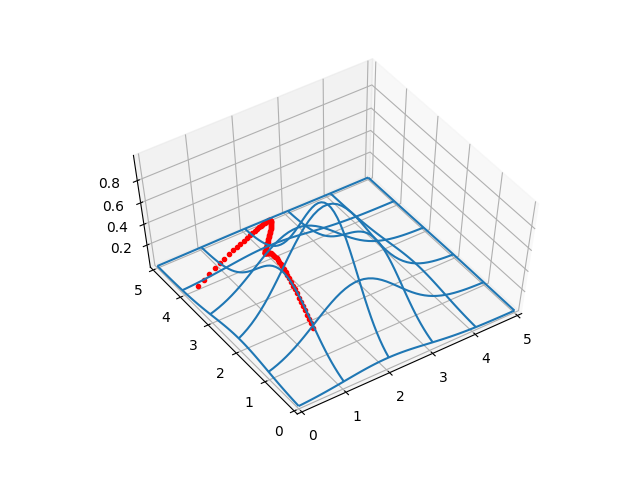
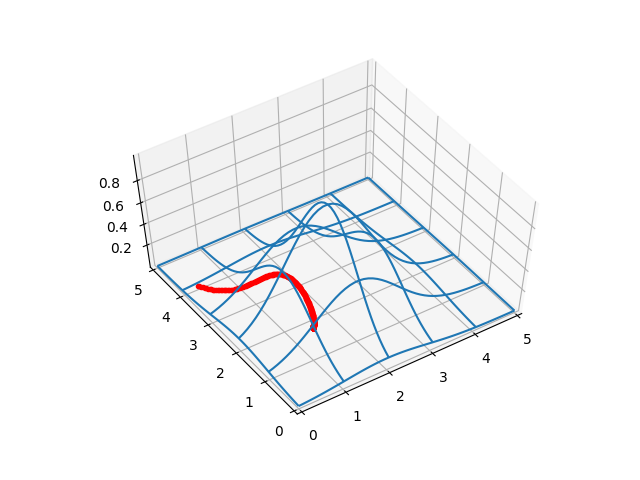
-

Changed region(s): [[0.3125, 0.4375, 0.5, 0.6875]]

diff --git a/calc_multi/calc_multi_40_elev/calc_multi_40_elev.html b/calc_multi/calc_multi_40_elev/calc_multi_40_elev.html
@@ -219,7 +219,7 @@ def plot_surf_path(azim,elev,a0,a1,a2,a3,a4,b0,b1,b2,b3,b4):
     ax.view_init(elev=elev, azim=azim)
     surf = ax.plot_wireframe(xx, yy, zz,rstride=10, cstride=10)
 
-    t = np.linspace(0,1.0,100)
+    t = np.linspace(0,1.0,300)
 
     x = a0 + a1*t + a2*t**2 + a3*t**3 + a4*t**4 
     y = b0 + b1*t + b2*t**2 + b3*t**3 + b4*t**4
@@ -244,15 +244,15 @@ def find_path(ex,ey,a0,b0,offset):
 
 
     # rasgele secilmis baslangic degerleri
-    a1,a2,a3 = 0.1,0.2,0.4
-    b1,b2,b3 = 0.2,0.4,0.6
+    a1,a2,a3 = 0,0,0
+    b1,b2,b3 = 0,0,0
     x0 = a1,a2,a3,b1,b2,b3
 
     def pintval(p):
         a1,a2,a3,b1,b2,b3 = p
         a4 = ex - a0 - (a1+a2+a3)
         b4 = ey - b0 - (b1+b2+b3)   
-        t = np.linspace(0,1,100)
+        t = np.linspace(0,1,300)
         tmp = b1 + 2.0*b2*t + 3.0*b3*t**2.0 - 112.0*t**3.0 + \
               (a1 + 2.0*a2*t + 3.0*a3*t**2.0 - 65.2*t**3.0)**2.0
         sq = [anp.sqrt(_) if _ != anp.nan else 0.0 for _ in tmp]
@@ -263,7 +263,6 @@ def find_path(ex,ey,a0,b0,offset):
         z = gfunc(x,y,offset)
         res = z * sq
         T = trapz(res, 1.0/len(t))
-        print ('T',T)
         return T
 
     pintval_grad = autograd.grad(pintval)
@@ -273,17 +272,15 @@ def find_path(ex,ey,a0,b0,offset):
                             jac = pintval_grad,
                             method = 'COBYLA',
                             callback=print,
-                            tol=0.05,
+                            tol=0.001,
                             constraints=cons)
 
     print (sol.x)
     return sol.x
 
 a0,b0=1.0,1.0
-OFFSET = 1.0
-
 ex,ey=0.3,4.0
-res = find_path(ex,ey,a0,b0,OFFSET)
+res = find_path(ex,ey,a0,b0,offset=0.8)
 a1,a2,a3,b1,b2,b3 = res
 a4 = ex - a0 - (a1+a2+a3)
 b4 = ey - b0 - (b1+b2+b3)
@@ -293,7 +290,7 @@ plt.savefig('calc_multi_40_elev_04.png')
 #plt.show()
 
 ex,ey=4.0,4.0
-res = find_path(ex,ey,a0,b0,OFFSET)
+res = find_path(ex,ey,a0,b0,offset=2.0)
 a1,a2,a3,b1,b2,b3 = res
 a4 = ex - a0 - (a1+a2+a3)
 b4 = ey - b0 - (b1+b2+b3)
@@ -314,8 +311,8 @@ içinde olan <code>numpy</code> kodlarını kullanmamız gerekmesi. Yani dışar
 sebep o <code>numpy</code>'in "türevi alınabilir" bir hale getirilmiş
 olması. OT bir sihirli değnek değil, pek çok iyi yapıyor, daha önceden
 hazırlanmış öğeleri kullanmak şartıyla. </p>
-<p>Ayrıca bir <code>OFFSET</code> parametresiyle yükseklik fonksiyonunun döndürdüğü
-her yükseklik hesabına bir <code>OFFSET</code> kadar yüksekliği suni olarak
+<p>Ayrıca bir <code>offset</code> parametresiyle yükseklik fonksiyonunun döndürdüğü
+her yükseklik hesabına bir <code>offset</code> kadar yüksekliği suni olarak
 eklediğimize dikkat. Bunun sebebi yer seviyesinin 0 yükseklikte olması
 sebebiyle sürekli tercih edilebilmesi, yani upuzun bir yol yer seviyesinden
 gidebilir, çünkü orada gitmenin hiçbir bedeli yoktur. Biz de her yüksekliği

diff --git a/calc_multi/calc_multi_40_elev/yukseklik_fonksiyonu__tepeler__arasindan_en_duz_optimal_yuruyus_yolunu_bulmak.html b/calc_multi/calc_multi_40_elev/yukseklik_fonksiyonu__tepeler__arasindan_en_duz_optimal_yuruyus_yolunu_bulmak.html
@@ -219,7 +219,7 @@ def plot_surf_path(azim,elev,a0,a1,a2,a3,a4,b0,b1,b2,b3,b4):
     ax.view_init(elev=elev, azim=azim)
     surf = ax.plot_wireframe(xx, yy, zz,rstride=10, cstride=10)
 
-    t = np.linspace(0,1.0,100)
+    t = np.linspace(0,1.0,300)
 
     x = a0 + a1*t + a2*t**2 + a3*t**3 + a4*t**4 
     y = b0 + b1*t + b2*t**2 + b3*t**3 + b4*t**4
@@ -244,15 +244,15 @@ def find_path(ex,ey,a0,b0,offset):
 
 
     # rasgele secilmis baslangic degerleri
-    a1,a2,a3 = 0.1,0.2,0.4
-    b1,b2,b3 = 0.2,0.4,0.6
+    a1,a2,a3 = 0,0,0
+    b1,b2,b3 = 0,0,0
     x0 = a1,a2,a3,b1,b2,b3
 
     def pintval(p):
         a1,a2,a3,b1,b2,b3 = p
         a4 = ex - a0 - (a1+a2+a3)
         b4 = ey - b0 - (b1+b2+b3)   
-        t = np.linspace(0,1,100)
+        t = np.linspace(0,1,300)
         tmp = b1 + 2.0*b2*t + 3.0*b3*t**2.0 - 112.0*t**3.0 + \
               (a1 + 2.0*a2*t + 3.0*a3*t**2.0 - 65.2*t**3.0)**2.0
         sq = [anp.sqrt(_) if _ != anp.nan else 0.0 for _ in tmp]
@@ -263,7 +263,6 @@ def find_path(ex,ey,a0,b0,offset):
         z = gfunc(x,y,offset)
         res = z * sq
         T = trapz(res, 1.0/len(t))
-        print ('T',T)
         return T
 
     pintval_grad = autograd.grad(pintval)
@@ -273,17 +272,15 @@ def find_path(ex,ey,a0,b0,offset):
                             jac = pintval_grad,
                             method = 'COBYLA',
                             callback=print,
-                            tol=0.05,
+                            tol=0.001,
                             constraints=cons)
 
     print (sol.x)
     return sol.x
 
 a0,b0=1.0,1.0
-OFFSET = 1.0
-
 ex,ey=0.3,4.0
-res = find_path(ex,ey,a0,b0,OFFSET)
+res = find_path(ex,ey,a0,b0,offset=0.8)
 a1,a2,a3,b1,b2,b3 = res
 a4 = ex - a0 - (a1+a2+a3)
 b4 = ey - b0 - (b1+b2+b3)
@@ -293,7 +290,7 @@ plt.savefig('calc_multi_40_elev_04.png')
 #plt.show()
 
 ex,ey=4.0,4.0
-res = find_path(ex,ey,a0,b0,OFFSET)
+res = find_path(ex,ey,a0,b0,offset=2.0)
 a1,a2,a3,b1,b2,b3 = res
 a4 = ex - a0 - (a1+a2+a3)
 b4 = ey - b0 - (b1+b2+b3)
@@ -314,8 +311,8 @@ içinde olan <code>numpy</code> kodlarını kullanmamız gerekmesi. Yani dışar
 sebep o <code>numpy</code>'in "türevi alınabilir" bir hale getirilmiş
 olması. OT bir sihirli değnek değil, pek çok iyi yapıyor, daha önceden
 hazırlanmış öğeleri kullanmak şartıyla. </p>
-<p>Ayrıca bir <code>OFFSET</code> parametresiyle yükseklik fonksiyonunun döndürdüğü
-her yükseklik hesabına bir <code>OFFSET</code> kadar yüksekliği suni olarak
+<p>Ayrıca bir <code>offset</code> parametresiyle yükseklik fonksiyonunun döndürdüğü
+her yükseklik hesabına bir <code>offset</code> kadar yüksekliği suni olarak
 eklediğimize dikkat. Bunun sebebi yer seviyesinin 0 yükseklikte olması
 sebebiyle sürekli tercih edilebilmesi, yani upuzun bir yol yer seviyesinden
 gidebilir, çünkü orada gitmenin hiçbir bedeli yoktur. Biz de her yüksekliği

diff --git a/calc_multi/calc_multi_40_elev/paths.py b/calc_multi/calc_multi_40_elev/paths.py
@@ -40,7 +40,7 @@ def plot_surf_path(azim,elev,a0,a1,a2,a3,a4,b0,b1,b2,b3,b4):
     ax.view_init(elev=elev, azim=azim)
     surf = ax.plot_wireframe(xx, yy, zz,rstride=10, cstride=10)
 
-    t = np.linspace(0,1.0,100)
+    t = np.linspace(0,1.0,300)
 
     x = a0 + a1*t + a2*t**2 + a3*t**3 + a4*t**4 
     y = b0 + b1*t + b2*t**2 + b3*t**3 + b4*t**4
@@ -65,15 +65,15 @@ def find_path(ex,ey,a0,b0,offset):
 
 
     # rasgele secilmis baslangic degerleri
-    a1,a2,a3 = 0.1,0.2,0.4
-    b1,b2,b3 = 0.2,0.4,0.6
+    a1,a2,a3 = 0,0,0
+    b1,b2,b3 = 0,0,0
     x0 = a1,a2,a3,b1,b2,b3
 
     def pintval(p):
         a1,a2,a3,b1,b2,b3 = p
         a4 = ex - a0 - (a1+a2+a3)
         b4 = ey - b0 - (b1+b2+b3)   
-        t = np.linspace(0,1,100)
+        t = np.linspace(0,1,300)
         tmp = b1 + 2.0*b2*t + 3.0*b3*t**2.0 - 112.0*t**3.0 + \
               (a1 + 2.0*a2*t + 3.0*a3*t**2.0 - 65.2*t**3.0)**2.0
         sq = [anp.sqrt(_) if _ != anp.nan else 0.0 for _ in tmp]
@@ -84,7 +84,6 @@ def find_path(ex,ey,a0,b0,offset):
         z = gfunc(x,y,offset)
         res = z * sq
         T = trapz(res, 1.0/len(t))
-        print ('T',T)
         return T
     
     pintval_grad = autograd.grad(pintval)
@@ -94,17 +93,15 @@ def find_path(ex,ey,a0,b0,offset):
                             jac = pintval_grad,
                             method = 'COBYLA',
                             callback=print,
-                            tol=0.05,
+                            tol=0.001,
                             constraints=cons)
 
     print (sol.x)
     return sol.x
     
 a0,b0=1.0,1.0
-OFFSET = 1.0
-
 ex,ey=0.3,4.0
-res = find_path(ex,ey,a0,b0,OFFSET)
+res = find_path(ex,ey,a0,b0,offset=0.8)
 a1,a2,a3,b1,b2,b3 = res
 a4 = ex - a0 - (a1+a2+a3)
 b4 = ey - b0 - (b1+b2+b3)
@@ -114,7 +111,7 @@ plt.savefig('calc_multi_40_elev_04.png')
 #plt.show()
 
 ex,ey=4.0,4.0
-res = find_path(ex,ey,a0,b0,OFFSET)
+res = find_path(ex,ey,a0,b0,offset=2.0)
 a1,a2,a3,b1,b2,b3 = res
 a4 = ex - a0 - (a1+a2+a3)
 b4 = ey - b0 - (b1+b2+b3)
